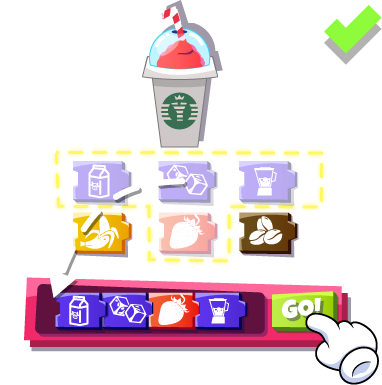
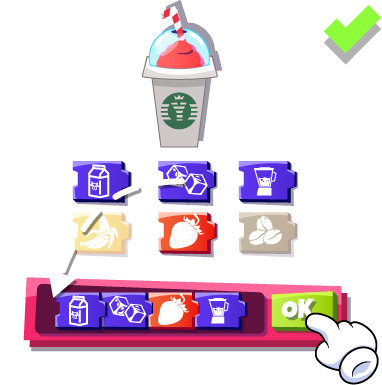
smoothieLoops fixes

diff --git a/newStructure/minigames/smoothieLoops/js/scenes/smoothieLoops.js b/newStructure/minigames/smoothieLoops/js/scenes/smoothieLoops.js
@@ -130,6 +130,13 @@ var smoothieLoops = function(){
 
     var clouds
 
+    var boardGroup
+    var boardImageFruit
+    var boardImageSmoothie
+
+    var boardButtons
+    var boardTween
+    var errorTween
 
 	function loadSounds(){
 		sound.decode(assets.sounds)
@@ -151,6 +158,9 @@ var smoothieLoops = function(){
         inTutorial = 0
         arrayButtons = []
         playedLoops = 0
+
+        boardImages = []
+        boardButtons = []
 
         currentTime = INITIAL_TIME
 
@@ -267,11 +277,6 @@ var smoothieLoops = function(){
        //objectBorn= Objeto de donde nacen
        coins.x=objectBorn.x
        coins.y=objectBorn.y
-       
-       /*var emitter = epicparticles.newEmitter("pickedEnergy")
-       emitter.duration=1;
-       emitter.x = coins.x
-       emitter.y = coins.y*/
 
 
 
@@ -430,6 +435,7 @@ var smoothieLoops = function(){
             arrayButtons[i].scale.setTo(1)
             arrayButtons[i].x = arrayButtons[i].startPos.x
             arrayButtons[i].y = arrayButtons[i].startPos.y
+            arrayButtons[i].inArea = false
         }
 
         var r = game.rnd.integerInRange(1,3)
@@ -445,14 +451,20 @@ var smoothieLoops = function(){
             case 1:
             correctSecuence = bananaSecuence
             dialog.smoothie.loadTexture('atlas.game','smoothie_banana',0,false)
+            boardImageFruit.loadTexture("atlas.game","banana")
+            boardImageSmoothie.loadTexture("atlas.game","smoothie_banana")
             break
             case 2:
             correctSecuence = strawberrySecuence
             dialog.smoothie.loadTexture('atlas.game','smoothie_fresa',0,false)
+            boardImageFruit.loadTexture("atlas.game","fresawn")
+            boardImageSmoothie.loadTexture("atlas.game","smoothie_fresa")
             break
             case 3:
             correctSecuence = coffeeSecuence
             dialog.smoothie.loadTexture('atlas.game','smoothie_cafe',0,false)
+            boardImageFruit.loadTexture("atlas.game","cofi")
+            boardImageSmoothie.loadTexture("atlas.game","smoothie_cafe")
             break
         }
 
@@ -485,6 +497,7 @@ var smoothieLoops = function(){
         currentLevel ++
 
         if(inTutorial!=-1){
+            showBoard()
             evalTutorial()
         }
     }
@@ -660,6 +673,7 @@ var smoothieLoops = function(){
 				game.tweens.removeAll()
 				
 			}
+            hideBoard()
         	evalTutorial()
         }
 
@@ -698,6 +712,17 @@ var smoothieLoops = function(){
                     sceneGroup.bringToTop(arrayButtons[currentIngredientAnimation])
                     if(arrayButtons[currentIngredientAnimation].id != correctSecuence[currentIngredientAnimation]){
                         rectAnswer.tint = 0xff0000
+
+                        //boardButtons[currentIngredientAnimation].scale.setTo(1.3)
+                        //if(currentIngredientAnimation<arrayButtons.length-1){
+                            errorTween = game.add.tween(boardButtons[currentIngredientAnimation].scale).to({x:1.2,y:1.2},500,Phaser.Easing.linear,true)
+                        //}
+                        //else{
+                            
+                        //}
+                        errorTween.yoyo(true)
+                        errorTween.loop(true)
+
                         smoothieBad()
                         return
                     }
@@ -759,6 +784,10 @@ var smoothieLoops = function(){
             }
             else{
                 //lose
+                dialog.scale.setTo(1)
+                errorTween = game.add.tween(dialog.scale).to({x:1.2,y:1.2},500,Phaser.Easing.linear,true)
+                errorTween.yoyo(true)
+                errorTween.loop(true)
                 smoothieBad()
             }
         }
@@ -777,8 +806,32 @@ var smoothieLoops = function(){
             }
             else{
                 //lose
+                dialog.scale.setTo(1)
+                errorTween = game.add.tween(dialog.scale).to({x:1.2,y:1.2},500,Phaser.Easing.linear,true)
+                errorTween.yoyo(true)
+                errorTween.loop(true)
                 smoothieBad()
             }
+        }
+    }
+
+    function showBoard(){
+        game.add.tween(boardGroup).to({alpha:1,angle:0},500,Phaser.Easing.linear,true)
+        if(inTutorial==-1){
+            setTimeout(hideBoard,4000)
+        }
+    }
+
+    function hideBoard(){
+        game.add.tween(boardGroup).to({alpha:0,angle:90},500,Phaser.Easing.linear,true)
+
+        if(errorTween!=null){
+            errorTween.stop()
+            dialog.scale.setTo(1)
+        }
+
+        for(var i = 0; i < boardButtons.length; i ++){
+            boardButtons[i].scale.setTo(1)
         }
     }
 
@@ -789,7 +842,46 @@ var smoothieLoops = function(){
         missPoint()
         machineSpine.setAnimationByName(0,'lose',false)
         var dinamitalose =yogotar.setAnimationByName(0,'lose',false)
-        dinamitalose.onComplete = setRound
+        dinamitalose.onComplete = restarRound
+
+        showBoard()
+    }
+
+    function restarRound(){
+        if(rectAnswer.x > 0){
+            rectAnswer.x = -500
+        }
+
+        lButton.visible = true
+        lButton.x = lButton.startPos.x
+        lButton.y = lButton.startPos.y
+        inAnimation = false
+        currentIngredientAnimation = 0
+        yogotar.setAnimationByName(0,'idle',true)
+        machineSpine.setAnimationByName(0,'idle',true)
+
+        for(var i = 0; i < arrayButtons.length; i++ ){
+            arrayButtons[i].scale.setTo(1)
+            arrayButtons[i].x = arrayButtons[i].startPos.x
+            arrayButtons[i].y = arrayButtons[i].startPos.y
+            arrayButtons[i].inArea = false
+        }
+
+
+
+        if(timeOn){
+            startTimer(currentTime)
+        }
+
+        loopText.setText(1)
+        loopButton.visible = false
+        loopText.value = 1
+        playedLoops = 0
+
+        arrayButtons = []
+
+        game.add.tween(dialog.scale).to({x:1,y:1},500,Phaser.Easing.linear,true)
+
     }
 
     function clickLoop(){
@@ -919,7 +1011,9 @@ var smoothieLoops = function(){
     	}
     }
 
-    
+    function setBoardTween(){
+        //boardTween
+    }
     
     function createScene(){
 
@@ -1124,6 +1218,67 @@ var smoothieLoops = function(){
 
         sceneGroup.add(dialog)
         dialog.scale.setTo(0)
+
+        boardGroup = game.add.group()
+        sceneGroup.add(boardGroup)
+        boardGroup.x = game.world.centerX - 250
+        boardGroup.y = game.world.centerY - 260
+        boardGroup.alpha = 0
+        boardGroup.angle = 90
+
+        var boardImage = boardGroup.create(0,0,"atlas.game","board")
+        boardImage.scale.setTo(1.1)
+        boardImage.anchor.setTo(0,1)
+
+        var product = boardGroup.create(45,-70,"atlas.game","milk")
+        product.scale.setTo(0.7)
+        product.anchor.setTo(0.5)
+        boardButtons.push(product)
+
+        product = boardGroup.create(95,-70,"atlas.game","plus")
+        //product.scale.setTo(0.7)
+        product.anchor.setTo(0.5)
+
+        product = boardGroup.create(145,-70,"atlas.game","ice")
+        product.scale.setTo(0.7)
+        product.anchor.setTo(0.5)
+        boardButtons.push(product)
+
+        product = boardGroup.create(195,-70,"atlas.game","plus")
+        //product.scale.setTo(0.7)
+        product.anchor.setTo(0.5)
+
+        boardImageFruit = boardGroup.create(245,-70,"atlas.game","milk")
+        boardImageFruit.scale.setTo(0.7)
+        boardImageFruit.anchor.setTo(0.5)
+        boardButtons.push(boardImageFruit)
+
+        product = boardGroup.create(295,-70,"atlas.game","plus")
+        //product.scale.setTo(0.7)
+        product.anchor.setTo(0.5)
+
+        product = boardGroup.create(345,-70,"atlas.game","licuar")
+        product.scale.setTo(0.7)
+        product.anchor.setTo(0.5)
+        boardButtons.push(product)
+
+        product = boardGroup.create(395,-70,"atlas.game","igual")
+        //product.scale.setTo(0.7)
+        product.anchor.setTo(0.5)
+
+        boardImageSmoothie = boardGroup.create(445,-70,"atlas.game","smoothie_banana")
+        //product.scale.setTo(0.7)
+        boardImageSmoothie.anchor.setTo(0.5)
+
+        var text = "RECIPE"
+        if(localization.getLanguage()=="ES"){
+            text = "RECETA"
+        }
+
+        fontStyle = {font: "40px VAGRounded", fontWeight: "bold", fill: "#ffffff", align: "center"}
+        var textRecipe = new Phaser.Text(sceneGroup.game, boardImage.width/2, -110, text, fontStyle)
+        textRecipe.anchor.setTo(0.5)
+        boardGroup.add(textRecipe)
 
 
         hand = sceneGroup.create(0,0,'atlas.game','handUp')

diff --git a/newStructure/shared/minigames/js/helpers/yogomeGames.js b/newStructure/shared/minigames/js/helpers/yogomeGames.js
@@ -179,7 +179,7 @@ var yogomeGames = function () {
             {name:'Code Cake',url:urlSet + 'codeCake/',mapUrl:urlMap + 'codeCake', sceneName:'codeCake',subject:'coding', review:false,objective:15,demo:false, type:gameTypeEnum.MATCH},//149
             {name:'S Mart',url:urlSet + 'smart/',mapUrl:urlMap + 'smart', sceneName:'smart',subject:'coding', review:false,objective:15,demo:false, type:gameTypeEnum.MATCH},//150
             {name:'Y Factor',url:urlSet + 'Yfactor/',mapUrl:urlMap + 'Yfactor', sceneName:'Yfactor',subject:'creativity', review:false,objective:30,demo:false, type:gameTypeEnum.SEQUENCE},//151
-            {name:'Smoothie Loops',url:urlSet + 'smoothieLoops/',mapUrl:urlMap + 'smoothieLoops', sceneName:'smoothieLoops',subject:'coding', review:false,objective:20,demo:false, type:gameTypeEnum.COUNT},//152
+            {name:'Smoothie Loops',url:urlSet + 'smoothieLoops/',mapUrl:urlMap + 'smoothieLoops', sceneName:'smoothieLoops',subject:'coding', review:false,objective:20,demo:false, type:gameTypeEnum.SEQUENCE},//152
             {name:'Bondroid',url:urlSet + 'bondroid/',mapUrl:urlMap + 'bondroid', sceneName:'bondroid',subject:'coding', review:false,objective:10,demo:false, type:gameTypeEnum.TRACE},//153
             {name:'Chiseler',url:urlSet + 'chiseler/',mapUrl:urlMap + 'chiseler', sceneName:'chiseler',subject:'creativity', review:false,objective:5,demo:false, type:gameTypeEnum.CHOOSE},//154
             {name:'Soccer Wheel',url:urlSet + 'soccerWheel/',mapUrl:urlMap + 'soccerWheel', sceneName:'soccerWheel',subject:'language', review:false,objective:20,demo:false, type:gameTypeEnum.TARGET},//155
@@ -207,6 +207,7 @@ var yogomeGames = function () {
             {name:'Color Invaders',url:urlSet + 'colorInvaders/',mapUrl:urlMap + 'colorInvaders', sceneName:'colorInvaders',subject:'language', review:false,objective:30,demo:false, type:gameTypeEnum.CHOOSE},//177
             {name:'Clean Crossing',url:urlSet + 'cleanCrossing/',mapUrl:urlMap + 'cleanCrossing', sceneName:'cleanCrossing',subject:'sustainability', review:false,objective:20,demo:false, type:gameTypeEnum.CHOOSE},//178
             {name:'Climb O Weight',url:urlSet + 'climbOWeight/',mapUrl:urlMap + 'climbOWeight', sceneName:'climbOWeight',subject:'sciencie', review:false,objective:25,demo:false, type:gameTypeEnum.MATCH},//179
+            {name:'Water Gunner',url:urlSet + 'waterGunner/',mapUrl:urlMap + 'waterGunner', sceneName:'waterGunner',subject:'sciencie', review:false,objective:20,demo:false, type:gameTypeEnum.MATCH},//180
 		]
 
 		for(var gIndex = 0; gIndex < games.length; gIndex++){
